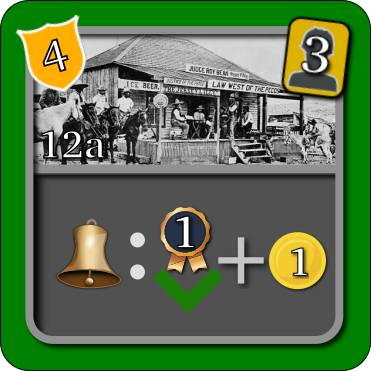
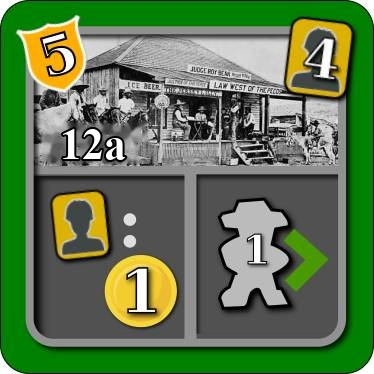
fix bldg 12, other fixes

diff --git a/ROW/vueROW/src/js/ROWrules.test.js b/ROW/vueROW/src/js/ROWrules.test.js
@@ -1,6 +1,6 @@
 import { describe, expect, it } from "vitest";
 import { ActionStack, ActionType, CattleType, Edition, Game, Hand, JavaRandom, OBJECTIVE_CARD_TYPES, PossibleAction, Worker, defaultOptions } from "./ROWindex";
-import { playerBuildingInfo } from "./ROWdata";
+import { buildingNumbersForOptions, playerBuildingAction, playerBuildingInfo } from "./ROWdata";
 function players(n) {
     const colors = ["RED", "BLUE", "YELLOW", "GREEN"];
     return Array.from({ length: n }, (_, i) => ({ name: `Player ${i + 1}`, color: colors[i], type: "HUMAN" }));
@@ -52,7 +52,45 @@ describe("Second-edition building stats (PlayerBuilding 2e subclasses)", () => {
         expect(playerBuildingInfo("13a", Edition.FIRST).hand).toBe(Hand.GREEN);
         expect(playerBuildingInfo("13a", Edition.SECOND).hand).toBe(Hand.NONE);
         expect(playerBuildingInfo("13b", Edition.FIRST).craftsmen).toBe(2);
-        expect(playerBuildingInfo("13b", Edition.SECOND).craftsmen).toBe(3);
+        expect(playerBuildingInfo("13b", Edition.SECOND).craftsmen).toBe(2);
+    });
+    it("uses the 2e base 12 and RTTN 13 stats", () => {
+        expect(playerBuildingInfo("12a", Edition.SECOND)).toMatchObject({ craftsmen: 4, points: 5 });
+        expect(playerBuildingInfo("12b", Edition.SECOND)).toMatchObject({ craftsmen: 3, points: 4 });
+        expect(playerBuildingInfo("13a", Edition.SECOND)).toMatchObject({ craftsmen: 2, points: 3 });
+        expect(playerBuildingInfo("13b", Edition.SECOND)).toMatchObject({ craftsmen: 2, points: 3 });
+    });
+    it("maps second-edition building sets", () => {
+        expect(buildingNumbersForOptions(Edition.SECOND, {})).toEqual([1, 2, 3, 4, 5, 6, 7, 8, 9, 10, 11, 12]);
+        expect(buildingNumbersForOptions(Edition.SECOND, { railsToTheNorth: true })).toEqual([1, 2, 3, 4, 5, 6, 7, 8, 9, 10, 11, 12, 13]);
+    });
+    it("gives a new 2e game the 12a/12b set", () => {
+        const base = Game.start(players(2), defaultOptions(Edition.SECOND, { buildings: "BEGINNER" }), new JavaRandom(1));
+        const baseNumbers = new Set(base.currentPlayerState().buildings.map((b) => parseInt(b, 10)));
+        expect(baseNumbers.has(12)).toBe(true);
+        expect(baseNumbers.has(13)).toBe(false);
+        expect(base.currentPlayerState().buildings).toHaveLength(12);
+
+        const rttn = Game.start(players(2), defaultOptions(Edition.SECOND, { buildings: "BEGINNER", railsToTheNorth: true }), new JavaRandom(1));
+        const rttnNumbers = new Set(rttn.currentPlayerState().buildings.map((b) => parseInt(b, 10)));
+        expect(rttnNumbers.has(12)).toBe(true);
+        expect(rttnNumbers.has(13)).toBe(true);
+        expect(rttn.currentPlayerState().buildings).toHaveLength(13);
+    });
+    it("uses the 2e base and RTTN 13 actions", () => {
+        expect(playerBuildingAction("12a", Edition.SECOND, 3).canPerform(ActionType.GAIN_1_DOLLAR_PER_CRAFTSMAN)).toBe(true);
+        expect(playerBuildingAction("12a", Edition.SECOND, 3).canPerform(ActionType.MOVE_1_FORWARD)).toBe(true);
+        expect(playerBuildingAction("12b", Edition.SECOND, 3).canPerform(ActionType.GAIN_2_DOLLARS_PER_STATION)).toBe(true);
+        expect(playerBuildingAction("12b", Edition.SECOND, 3).canPerform(ActionType.GAIN_EXCHANGE_TOKEN)).toBe(true);
+        expect(playerBuildingAction("13a", Edition.SECOND, 3).canPerform(ActionType.SINGLE_AUXILIARY_ACTION)).toBe(true);
+        expect(playerBuildingAction("13a", Edition.SECOND, 3).canPerform(ActionType.GAIN_1_CERTIFICATE)).toBe(true);
+        expect(playerBuildingAction("13a", Edition.SECOND, 3).canPerform(ActionType.PLACE_BRANCHLET)).toBe(true);
+        expect(playerBuildingAction("13b", Edition.SECOND, 3).canPerform(ActionType.GAIN_1_CERTIFICATE_PER_BELL)).toBe(true);
+        expect(playerBuildingAction("13b", Edition.SECOND, 3).canPerform(ActionType.PLACE_BRANCHLET)).toBe(true);
+        // First edition still uses the original RTTN 12b and promo 13a/13b.
+        expect(playerBuildingAction("12b", Edition.FIRST, 3).canPerform(ActionType.PLACE_BRANCHLET)).toBe(true);
+        expect(playerBuildingAction("13a", Edition.FIRST, 3).canPerform(ActionType.PLACE_CHEAP_BUILDING)).toBe(true);
+        expect(playerBuildingAction("13b", Edition.FIRST, 3).canPerform(ActionType.SINGLE_OR_DOUBLE_AUXILIARY_ACTION)).toBe(true);
     });
 });
 describe("UPGRADE_ANY_STATION_BEHIND_ENGINE walks the graph (Space.isAfter)", () => {

diff --git a/ROW/vueROW/src/js/ROWdata.js b/ROW/vueROW/src/js/ROWdata.js
@@ -442,13 +442,14 @@ export const PLAYER_BUILDINGS = {
     "13b": PB("13b", Hand.NONE, 2, 4),
 };
 /**
- * Second-edition stat overrides (PlayerBuilding 11A2ndEdition / 13A2ndEdition / 13B2ndEdition):
- * only the hand fee / craftsmen / points differ; the actions are handled in playerBuildingAction.
+ * Second-edition player-building stats: base buildings 11-12 and RTTN 13a/13b.
  */
 const PLAYER_BUILDINGS_SECOND_EDITION = {
     "11a": PB("11a", Hand.NONE, 12, 20),
-    "13a": PB("13a", Hand.NONE, 4, 5),
-    "13b": PB("13b", Hand.NONE, 3, 4),
+    "12a": PB("12a", Hand.NONE, 4, 5),
+    "12b": PB("12b", Hand.NONE, 3, 4),
+    "13a": PB("13a", Hand.NONE, 2, 3),
+    "13b": PB("13b", Hand.NONE, 2, 3),
 };
 /** Edition-aware player-building stats. */
 export function playerBuildingInfo(name, edition) {
@@ -459,13 +460,17 @@ export function playerBuildingInfo(name, edition) {
 /** Buildings available for the given edition + options (BuildingSet.buildingsForOptions). */
 export function buildingNumbersForOptions(edition, opts) {
     const numbers = [1, 2, 3, 4, 5, 6, 7, 8, 9, 10];
-    if (opts.railsToTheNorth) {
+    if (edition === Edition.SECOND) {
         numbers.push(11, 12);
+        if (opts.railsToTheNorth)
+            numbers.push(13);
+        return numbers;
     }
-    else if (edition === Edition.SECOND || opts.building11) {
+    if (opts.railsToTheNorth)
+        numbers.push(11, 12);
+    else if (opts.building11)
         numbers.push(11);
-    }
-    if (edition === Edition.SECOND || opts.building13)
+    if (opts.building13)
         numbers.push(13);
     return numbers;
 }
@@ -507,6 +512,7 @@ export function neutralBuildingAction(name, cowboys) {
  */
 export function playerBuildingAction(name, edition, cowboys) {
     const A = ActionType;
+    const second = edition === Edition.SECOND;
     switch (name) {
         case "1a":
             return PossibleAction.optionalAction(A.GAIN_2_DOLLARS_PER_BUILDING_IN_WOODS);
@@ -567,13 +573,21 @@ export function playerBuildingAction(name, edition, cowboys) {
         case "11b":
             return PossibleAction.optionalAction(A.MOVE_ENGINE_FORWARD_UP_TO_NUMBER_OF_HAZARDS);
         case "12a":
-            return PossibleAction.optionalAction(A.GAIN_1_CERTIFICATE_AND_1_DOLLAR_PER_BELL);
+            return second
+                ? PossibleAction.anyActions([A.GAIN_1_DOLLAR_PER_CRAFTSMAN, A.MOVE_1_FORWARD])
+                : PossibleAction.optionalAction(A.GAIN_1_CERTIFICATE_AND_1_DOLLAR_PER_BELL);
         case "12b":
-            return PossibleAction.anyActions([A.GAIN_1_DOLLAR_PER_CRAFTSMAN, A.PLACE_BRANCHLET]);
+            return second
+                ? PossibleAction.anyActions([A.GAIN_2_DOLLARS_PER_STATION, A.GAIN_EXCHANGE_TOKEN])
+                : PossibleAction.anyActions([A.GAIN_1_DOLLAR_PER_CRAFTSMAN, A.PLACE_BRANCHLET]);
         case "13a":
-            return edition === Edition.SECOND ? PossibleAction.anyActions([A.GAIN_1_DOLLAR_PER_CRAFTSMAN, A.MOVE_1_FORWARD]) : PossibleAction.anyActions([A.DISCARD_1_JERSEY_FOR_SINGLE_AUXILIARY_ACTION, A.PLACE_CHEAP_BUILDING]);
+            if (!second)
+                return PossibleAction.anyActions([A.DISCARD_1_JERSEY_FOR_SINGLE_AUXILIARY_ACTION, A.PLACE_CHEAP_BUILDING]);
+            return PossibleAction.anyActions([A.SINGLE_AUXILIARY_ACTION, A.GAIN_1_CERTIFICATE, A.PLACE_BRANCHLET]);
         case "13b":
-            return edition === Edition.SECOND ? PossibleAction.anyActions([A.GAIN_2_DOLLARS_PER_STATION, A.GAIN_EXCHANGE_TOKEN]) : PossibleAction.anyActions([A.GAIN_2_DOLLARS_PER_STATION, A.SINGLE_OR_DOUBLE_AUXILIARY_ACTION]);
+            if (!second)
+                return PossibleAction.anyActions([A.GAIN_2_DOLLARS_PER_STATION, A.SINGLE_OR_DOUBLE_AUXILIARY_ACTION]);
+            return PossibleAction.anyActions([A.GAIN_1_CERTIFICATE_PER_BELL, A.PLACE_BRANCHLET]);
         default:
             return PossibleAction.anyActions([]);
     }

diff --git a/Lobby/templates/Lobby/createROW.html b/Lobby/templates/Lobby/createROW.html
@@ -125,7 +125,7 @@
                     <div class="check-list">
                         <div class="form-row">
                             <label class="form-label" for="edition">{% translate "Edition" %}</label>
-                            <select name="edition" id="edition" style="flex:0 0 auto;width:auto" onchange="toggleSimmental();">
+                            <select name="edition" id="edition" style="flex:0 0 auto;width:auto" onchange="toggleEditionOptions();">
                                 <option value="FIRST" selected="selected">{% translate "First edition" %}</option>
                                 <option value="SECOND">{% translate "Second edition" %}</option>
                             </select>
@@ -180,14 +180,14 @@
                                 <div class="opt-help">{% translate "Adds the promo station master tiles" %}</div>
                             </div>
                         </label>
-                        <label class="check-label">
+                        <label class="check-label" id="building11Row">
                             <input type="checkbox" class="myCheckbox" id="building11" name="building11" value="1">
                             <div>
                                 <div>{% translate "Building 11" %}</div>
                                 <div class="opt-help">{% translate "Adds the building 11 promo tiles" %}</div>
                             </div>
                         </label>
-                        <label class="check-label">
+                        <label class="check-label" id="building13Row">
                             <input type="checkbox" class="myCheckbox" id="building13" name="building13" value="1">
                             <div>
                                 <div>{% translate "Building 13" %}</div>
@@ -234,9 +234,19 @@
             else if (/^SHADOW(_\d+)?$/.test(input.value)) input.value = "";
         }
     }
-    function toggleSimmental() {
-        var row = document.getElementById("simmentalRow");
-        if (row) row.style.display = document.getElementById("edition").value === "SECOND" ? "block" : "none";
+    function toggleEditionOptions() {
+        var second = document.getElementById("edition").value === "SECOND";
+        var simmental = document.getElementById("simmentalRow");
+        if (simmental) simmental.style.display = second ? "block" : "none";
+        // Buildings 11/12 are base 2e and 13 is 2e RTTN; the 1e promos do not apply.
+        var building11Row = document.getElementById("building11Row");
+        var building13Row = document.getElementById("building13Row");
+        if (building11Row) building11Row.style.display = second ? "none" : "block";
+        if (building13Row) building13Row.style.display = second ? "none" : "block";
+        if (second) {
+            document.getElementById("building11").checked = false;
+            document.getElementById("building13").checked = false;
+        }
     }
     function toggleRowAI() {
         var checked = document.getElementById("rowAI").checked;
@@ -253,7 +263,7 @@
             var input = document.getElementById("player" + i);
             if (input) autocomplete(input);
         }
-        toggleSimmental();
+        toggleEditionOptions();
         toggleRowAI();
         var form = document.getElementById("gameCreationForm");
         if (form) {
@@ -298,7 +308,7 @@
             document.getElementById("difficulty").value = automaDifficulty;
         }
         selectPlayers();
-        toggleSimmental();
+        toggleEditionOptions();
         toggleRowAI();
         {% endif %}
     });

diff --git a/ROW/vueROW/src/js/setupparity.test.js b/ROW/vueROW/src/js/setupparity.test.js
@@ -39,7 +39,7 @@ function freshGame(s, seed, extra) {
 }
 
 /** Every shuffle-independent difference between the fresh build and Java's setup snapshot. */
-function compare(s, g, relaxHazardHand = false) {
+function compare(s, g, relaxHazardHand = false, relaxBuildingSet = false) {
 	const diffs = [];
 	const eq = (label, row, java) => {
 		const a = JSON.stringify(row);
@@ -76,7 +76,8 @@ function compare(s, g, relaxHazardHand = false) {
 	const javaPlayers = Object.entries(s.playerStates).sort((a, b) => a[0].localeCompare(b[0])).map(([, ps]) => ps);
 	eq("player cards (deck+hand+discard)", ourPlayers.map((p) => cardMultiset([...p.drawStack, ...p.hand, ...p.discardPile])), javaPlayers.map((p) => cardMultiset([...(p.drawStack ?? []), ...(p.hand ?? []), ...(p.discardPile ?? [])])));
 	eq("player balances", ourPlayers.map((p) => p.balance).sort((a, b) => a - b), javaPlayers.map((p) => p.balance).sort((a, b) => a - b));
-	eq("player buildings", ourPlayers.map((p) => [...p.buildings].sort()), javaPlayers.map((p) => [...(p.buildings ?? [])].sort()));
+	if (!relaxBuildingSet)
+		eq("player buildings", ourPlayers.map((p) => [...p.buildings].sort()), javaPlayers.map((p) => [...(p.buildings ?? [])].sort()));
 	eq("player unlocked", ourPlayers.map((p) => nonZero(p.unlocked)), javaPlayers.map((p) => nonZero(p.unlocked)));
 	// Which start cards each seat drew is shuffled, but every seat gets exactly one START_* card.
 	eq("player committed objectives", ourPlayers.map((p) => p.objectives.length).sort((a, b) => a - b), javaPlayers.map((p) => (p.objectives ?? []).length).sort((a, b) => a - b));
@@ -109,7 +110,8 @@ function compare(s, g, relaxHazardHand = false) {
  * not the other option flags, so they are repeated here exactly as the fuzzer was called.
  */
 const CASES = [
-	{ file: "gwt2-fuzz-000.json", seed: 11 },
+	// Java labels the 2e base 12a tile as 13a; the client follows the printed rulebook.
+	{ file: "gwt2-fuzz-000.json", seed: 11, relaxBuildingSet: true },
 	{ file: "gwt-rttn-fuzz-000.json", seed: 22 },
 	{ file: "gwt-rttn-3p-fuzz-000.json", seed: 33 },
 	{ file: "gwt2-rttn-4p-fuzz-000.json", seed: 44 },
@@ -120,11 +122,11 @@ const CASES = [
 ];
 
 describe("Game.start setup parity (vs Java post-start snapshots)", () => {
-	for (const { file, seed, extra, relaxHazardHand } of CASES) {
+	for (const { file, seed, extra, relaxHazardHand, relaxBuildingSet } of CASES) {
 		it(`builds the same setup as Java for ${file}`, () => {
 			const s = JSON.parse(readFileSync(join(dir, file), "utf8")).initialState;
 			const g = freshGame(s, seed, extra ?? {});
-			expect(compare(s, g, !!relaxHazardHand).join("\n")).toBe("");
+			expect(compare(s, g, !!relaxHazardHand, !!relaxBuildingSet).join("\n")).toBe("");
 		});
 	}
 });

diff --git a/ROW/vueROW/src/js/ROWmap.js b/ROW/vueROW/src/js/ROWmap.js
@@ -640,7 +640,7 @@ export function buildingActionRegions(name, rect, inter, game) {
 		"3a": 185, "3b": 182, "4a": 182, "4b": 182,
 		"5a": second ? 183 : 205, "5b": 185, "6a": second ? 183 : 185,
 		"8a": 192, "9a": 192, "10a": 192, "10b": 192,
-		"11a": 188, "12b": 189, "13a": second ? 190 : 189, "13b": second ? 190 : 189,
+		"11a": 188, "12a": second ? 190 : 185, "12b": 189, "13a": second ? 190 : 189, "13b": second ? 190 : 189,
 	}
 	const x = (value) => rect.x + rect.w * value / 376
 	const y = (value) => rect.y + rect.h * value / 376
@@ -651,7 +651,10 @@ export function buildingActionRegions(name, rect, inter, game) {
 	let groups
 	let shapes
 
-	if (inter.mode === "activate" && name === "11a" && second) {
+	if (inter.mode === "activate" && second && name === "13a") {
+		groups = [[0], [1], [2]]
+		shapes = [panel(left, 136), panel(136, 240), panel(240, right)]
+	} else if (inter.mode === "activate" && name === "11a" && second) {
 		groups = [[0], [0]]
 		shapes = [panel(left, middle), panel(middle, right)]
 	} else if (inter.mode === "adjacent" || allActions.length <= 1) {

diff --git a/ROW/vueROW/src/js/map.test.js b/ROW/vueROW/src/js/map.test.js
@@ -209,6 +209,11 @@ describe("printed building action regions", () => {
         expect(regions("5a", "SECOND")[0].points).toContain("183,176");
         expect(regions("2b", "SECOND")[0].actions).toEqual([ActionType.DISCARD_1_DUTCH_BELT_TO_MOVE_ENGINE_2_FORWARD]);
     });
+    it("uses three printed panels for the 2e RTTN 13a", () => {
+        const r = regions("13a", "SECOND");
+        expect(r).toHaveLength(3);
+        expect(r.map((x) => x.actions[0])).toEqual([ActionType.SINGLE_AUXILIARY_ACTION, ActionType.GAIN_1_CERTIFICATE, ActionType.PLACE_BRANCHLET]);
+    });
     it("provides valid polygons for all private tiles in both editions", () => {
         for (const edition of ["FIRST", "SECOND"]) {
             for (let number = 1; number <= 13; number++) {

diff --git a/ROW/vueROW/src/js/ROWactionsCoverage.test.js b/ROW/vueROW/src/js/ROWactionsCoverage.test.js
@@ -64,6 +64,15 @@ describe("Coverage: money / certificate gains", () => {
 	G(ActionType.GAIN_2_CERTIFICATES_AND_2_DOLLARS_PER_TEEPEE_PAIR);
 	G(ActionType.MAX_CERTIFICATES);
 	G(ActionType.GAIN_1_CERTIFICATE_AND_1_DOLLAR_PER_BELL);
+	G(ActionType.GAIN_1_CERTIFICATE_PER_BELL);
+	it("gains one certificate per cleared bell", () => {
+		const game = freshGame(1);
+		const ps = game.currentPlayerState();
+		ps.branchlets = 6;
+		arm(game, ActionType.GAIN_1_CERTIFICATE_PER_BELL);
+		run(game, { type: ActionType.GAIN_1_CERTIFICATE_PER_BELL });
+		expect(ps.tempCertificates).toBe(3);
+	});
 });
 
 describe("Coverage: draw actions", () => {

diff --git a/ROW/vueROW/src/js/ROWcore.js b/ROW/vueROW/src/js/ROWcore.js
@@ -305,6 +305,7 @@ export var ActionType;
     ActionType["GAIN_1_CERTIFICATE_AND_1_DOLLAR_PER_BELL"] = "GAIN_1_CERTIFICATE_AND_1_DOLLAR_PER_BELL";
     ActionType["DISCARD_1_JERSEY_FOR_SINGLE_AUXILIARY_ACTION"] = "DISCARD_1_JERSEY_FOR_SINGLE_AUXILIARY_ACTION";
     // The following are second-edition / Rails to the North only (not exercised by first-edition scope):
+    ActionType["GAIN_1_CERTIFICATE_PER_BELL"] = "GAIN_1_CERTIFICATE_PER_BELL";
     ActionType["UPGRADE_SIMMENTAL"] = "UPGRADE_SIMMENTAL";
     ActionType["GAIN_EXCHANGE_TOKEN"] = "GAIN_EXCHANGE_TOKEN";
     ActionType["USE_EXCHANGE_TOKEN"] = "USE_EXCHANGE_TOKEN";

diff --git a/ROW/vueROW/src/js/ROWengine.js b/ROW/vueROW/src/js/ROWengine.js
@@ -2442,6 +2442,10 @@ export class Game {
                 ps.gainDollars(bells);
                 return null;
             }
+            case ActionType.GAIN_1_CERTIFICATE_PER_BELL: {
+                ps.gainTempCertificates(ps.numberOfBells());
+                return null;
+            }
             case ActionType.TAKE_BREEDING_VALUE_3_CATTLE_CARD: {
                 const card = (action.card ?? action.cattleCard);
                 this.state.cattleMarket.take(card);

diff --git a/ROW/vueROW/src/components/PlayerTable.vue b/ROW/vueROW/src/components/PlayerTable.vue
@@ -279,6 +279,7 @@ const CERT_GAINS = new Set([
 	ActionType.MAX_CERTIFICATES,
 	ActionType.GAIN_2_CERTIFICATES_AND_2_DOLLARS_PER_TEEPEE_PAIR,
 	ActionType.GAIN_1_CERTIFICATE_AND_1_DOLLAR_PER_BELL,
+	ActionType.GAIN_1_CERTIFICATE_PER_BELL,
 ])
 const DRAW_ACTIONS = new Set([
 	ActionType.DRAW_CARD,
